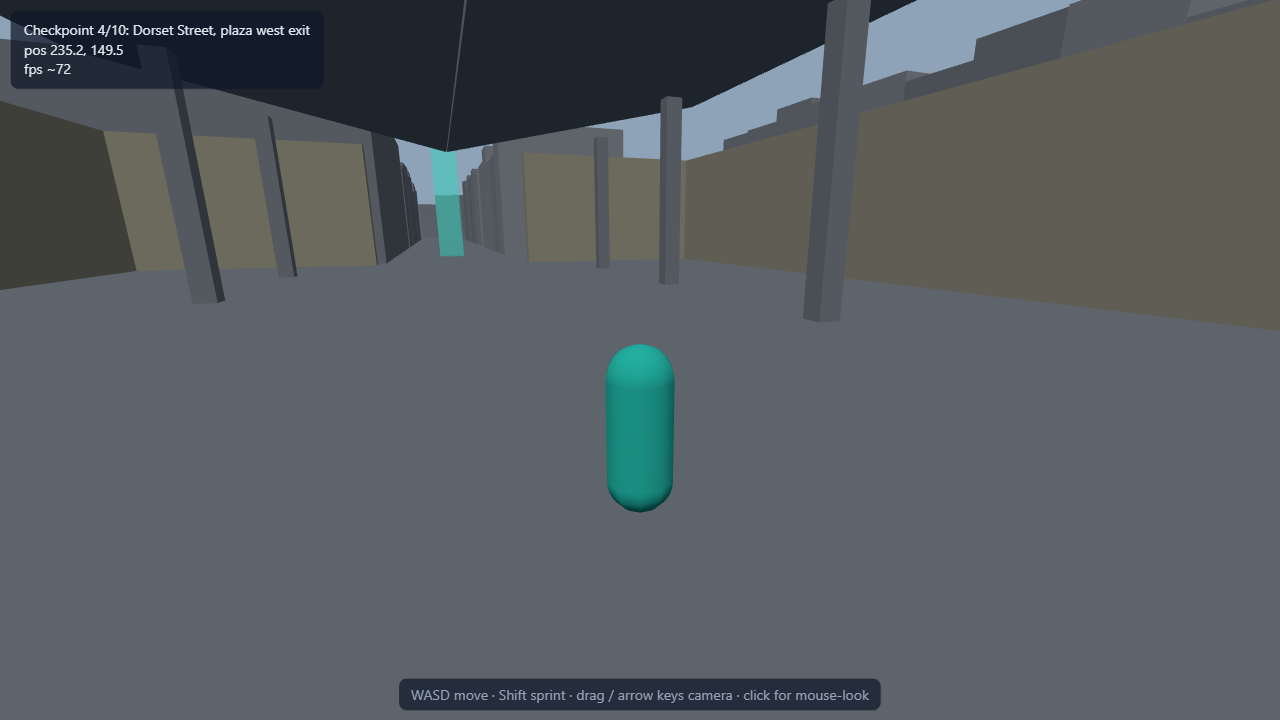
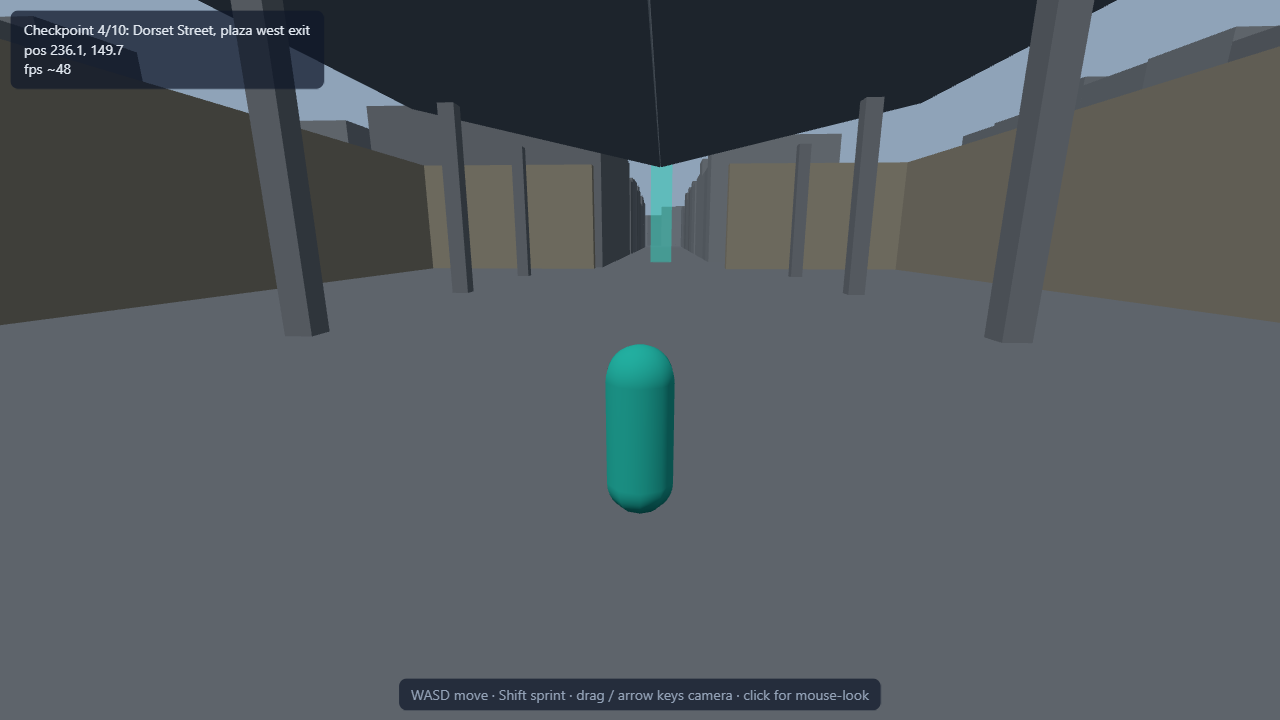
stage 1 CLOSED: independent review PASS; landmark evidence + perf datum
Reviewer (fresh subagent) confirmed real play, route, market interior; first
review failed on viaduct/spire never framed. Fixed by capture: pitch clamp
0.4->1.3, gate turns north at spawn (viaduct-north.png) and tilts up at the
church forecourt (church-spire.png), all real arrow-key input. Re-run 10/10;
second independent review PASS. Removed stale cp9-church.png (reviewer catch).

Perf datum (2c, greybox, quiet machine): median 145 fps, p95 141, idle ==
sprint, 1280x720 dpr1, ANGLE D3D11 on Intel UHD iGPU (NOT the RTX 3050),
Chrome/151. datum.mjs added.

Claude-Session: https://claude.ai/code/session_017qLJs9v2hryaFneworWUNy

Changed region(s): [[0.0, 0.0, 1.0, 0.4583], [0.5, 0.55, 0.5312, 0.5806]]

diff --git a/sandbox/index.html b/sandbox/index.html
@@ -172,7 +172,7 @@ renderer.domElement.addEventListener('mousedown', ()=>{ dragging=true;
 addEventListener('mouseup', ()=>dragging=false);
 addEventListener('mousemove', e=>{
   if(document.pointerLockElement===renderer.domElement || dragging){
-    P.yaw -= e.movementX*0.0025; P.pitch = Math.max(-1.2,Math.min(0.4,P.pitch - e.movementY*0.0025)); }});
+    P.yaw -= e.movementX*0.0025; P.pitch = Math.max(-1.2,Math.min(1.3,P.pitch - e.movementY*0.0025)); }});
 
 // ---------- collision: circle vs AABB, 2 resolve passes ----------
 function collide(px,pz){
@@ -211,7 +211,7 @@ const hud=document.getElementById('hud');
 const frameTimes=[];
 window.__game = { get route(){return route.map(r=>[r[1],r[2]])},
   get x(){return player.position.x}, get z(){return player.position.z},
-  get yaw(){return P.yaw}, get cp(){return cp}, get cpName(){return cp<route.length?route[cp][0]:'DONE'},
+  get yaw(){return P.yaw}, get pitch(){return P.pitch}, get cp(){return cp}, get cpName(){return cp<route.length?route[cp][0]:'DONE'},
   get routeDone(){return tDone!==null}, get routeSeconds(){return tDone?(tDone-tStart)/1000:null},
   get activeCamera(){return renderer.info.render.frame>0 ? _lastCam : 'none'},
   get fps(){ const s=[...frameTimes].sort((a,b)=>a-b); if(!s.length) return null;
@@ -228,7 +228,7 @@ function tick(now){
   // arrow-key camera (automation-drivable)
   if(keys.ArrowLeft)  P.yaw+=1.8*dt;
   if(keys.ArrowRight) P.yaw-=1.8*dt;
-  if(keys.ArrowUp)    P.pitch=Math.min(0.4,P.pitch+1.2*dt);
+  if(keys.ArrowUp)    P.pitch=Math.min(1.3,P.pitch+1.2*dt);
   if(keys.ArrowDown)  P.pitch=Math.max(-1.2,P.pitch-1.2*dt);
 
   // movement relative to camera yaw
